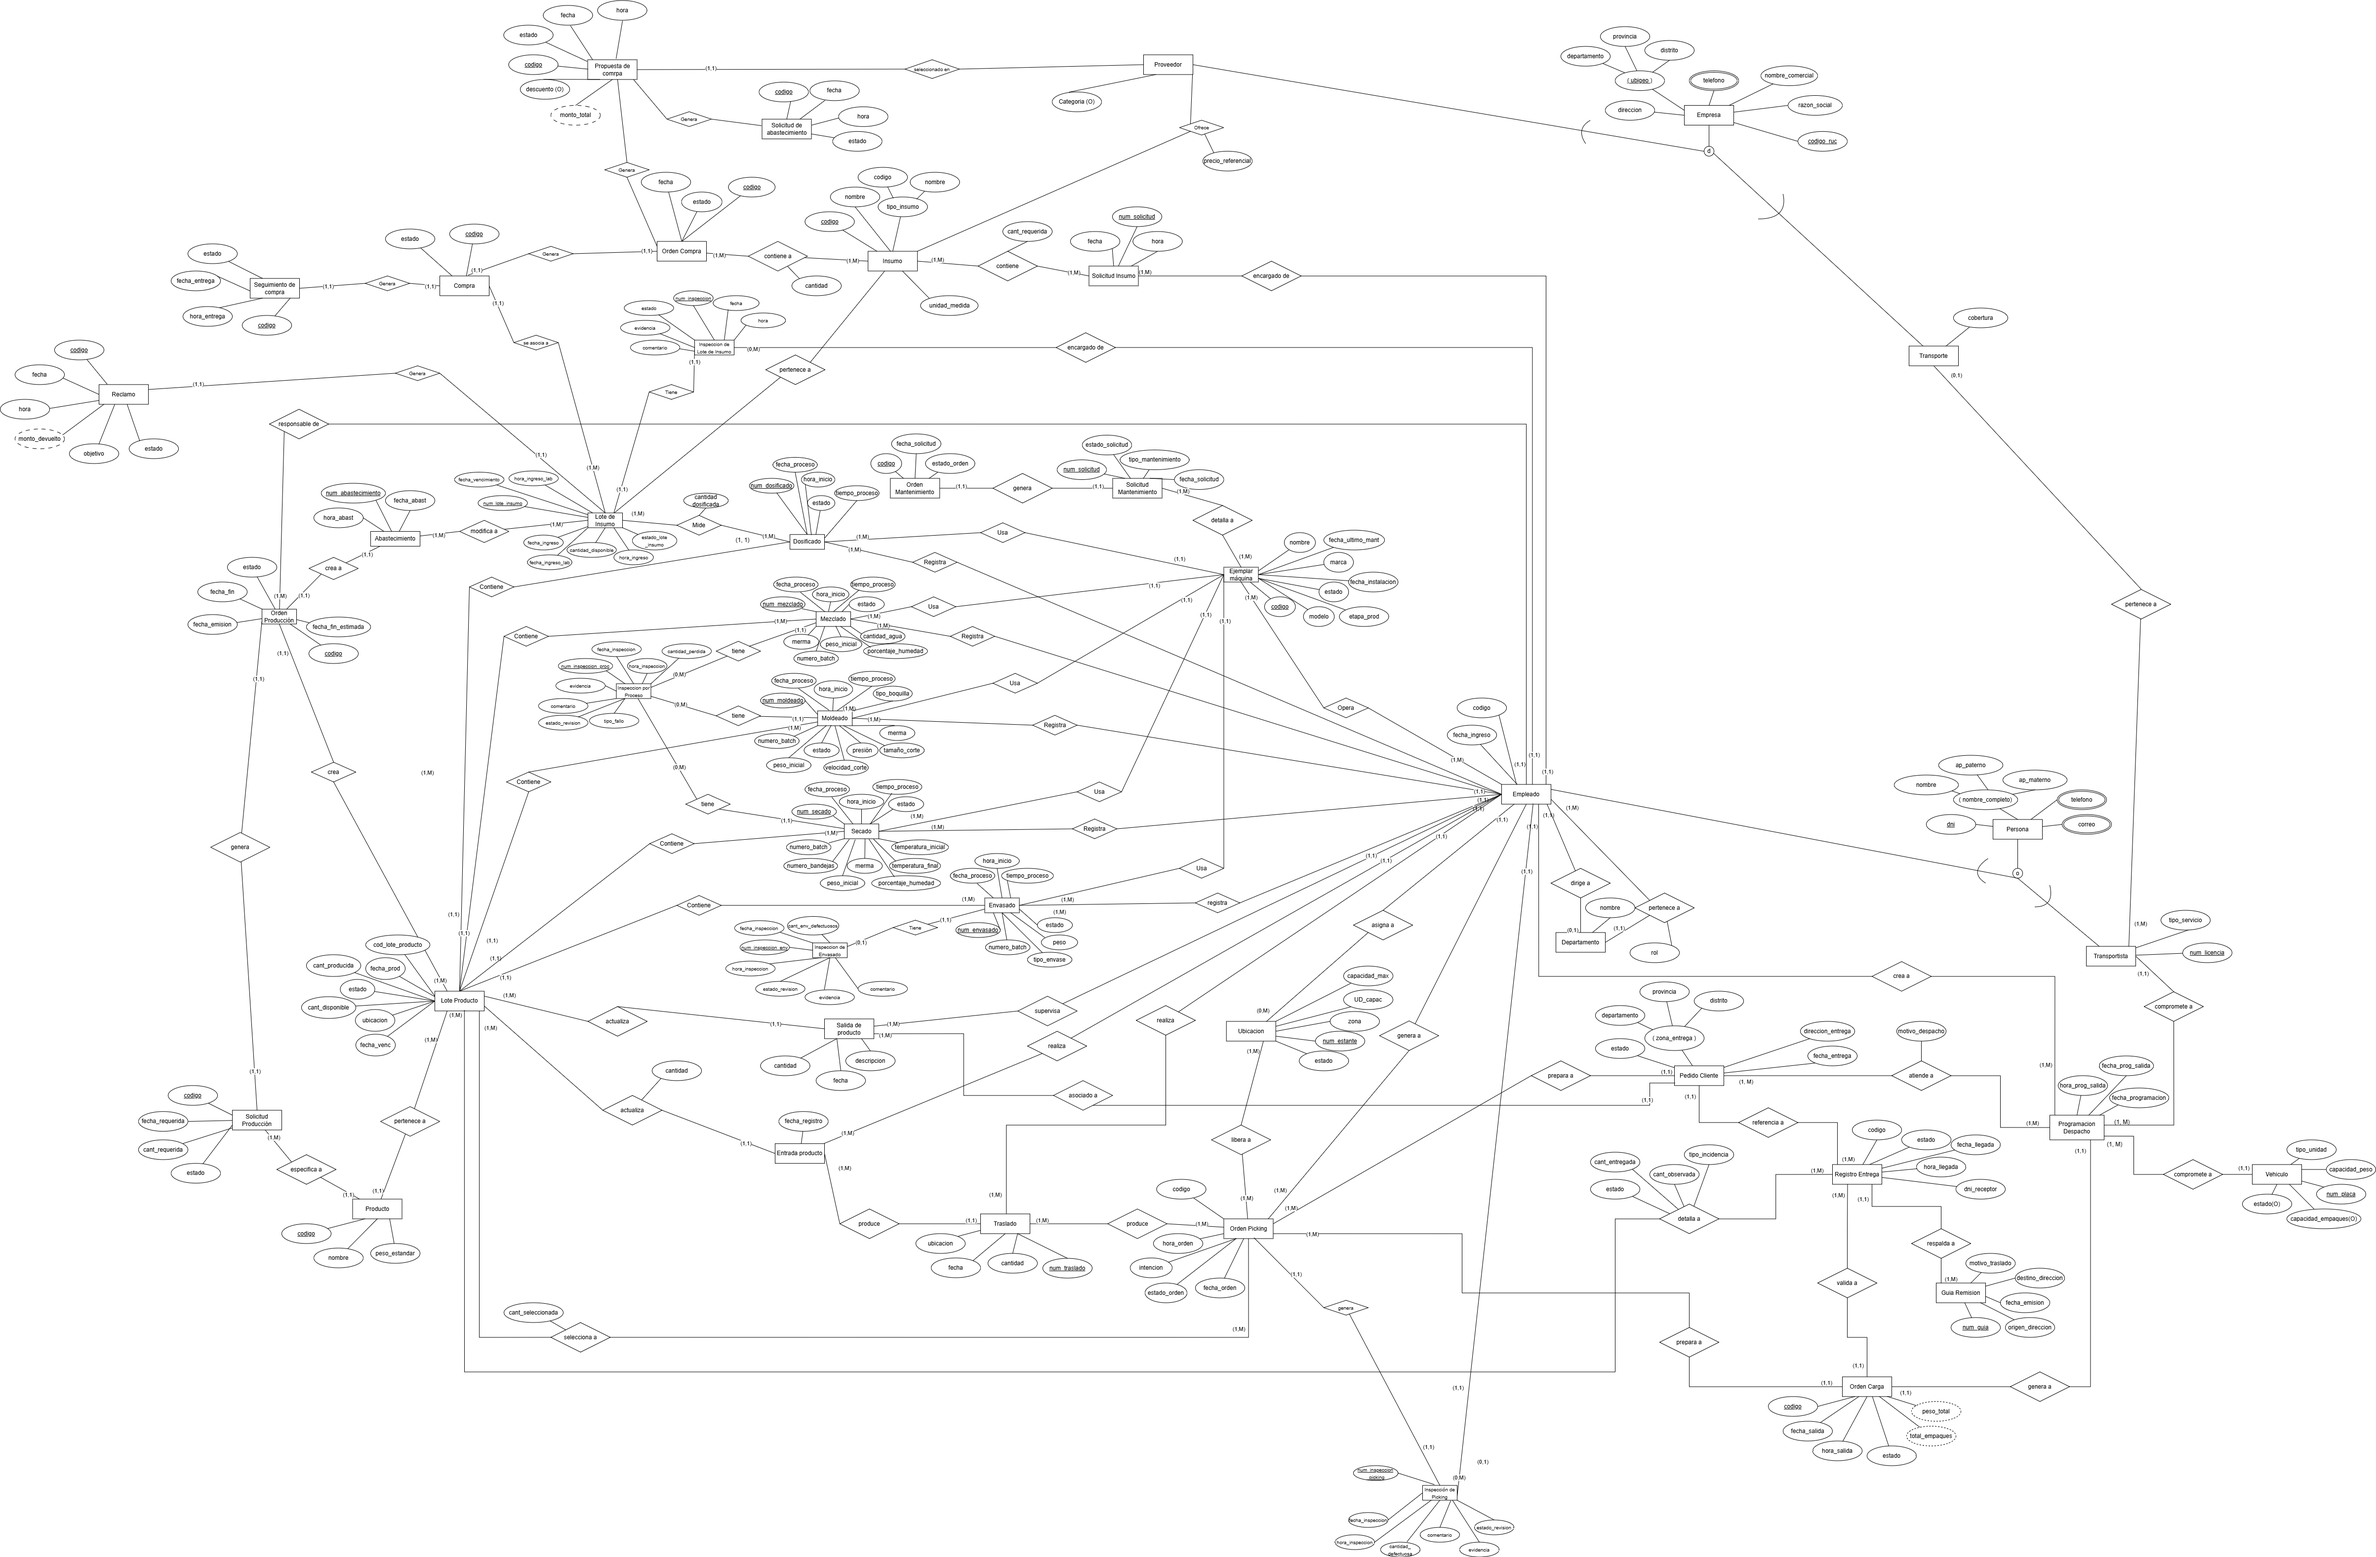
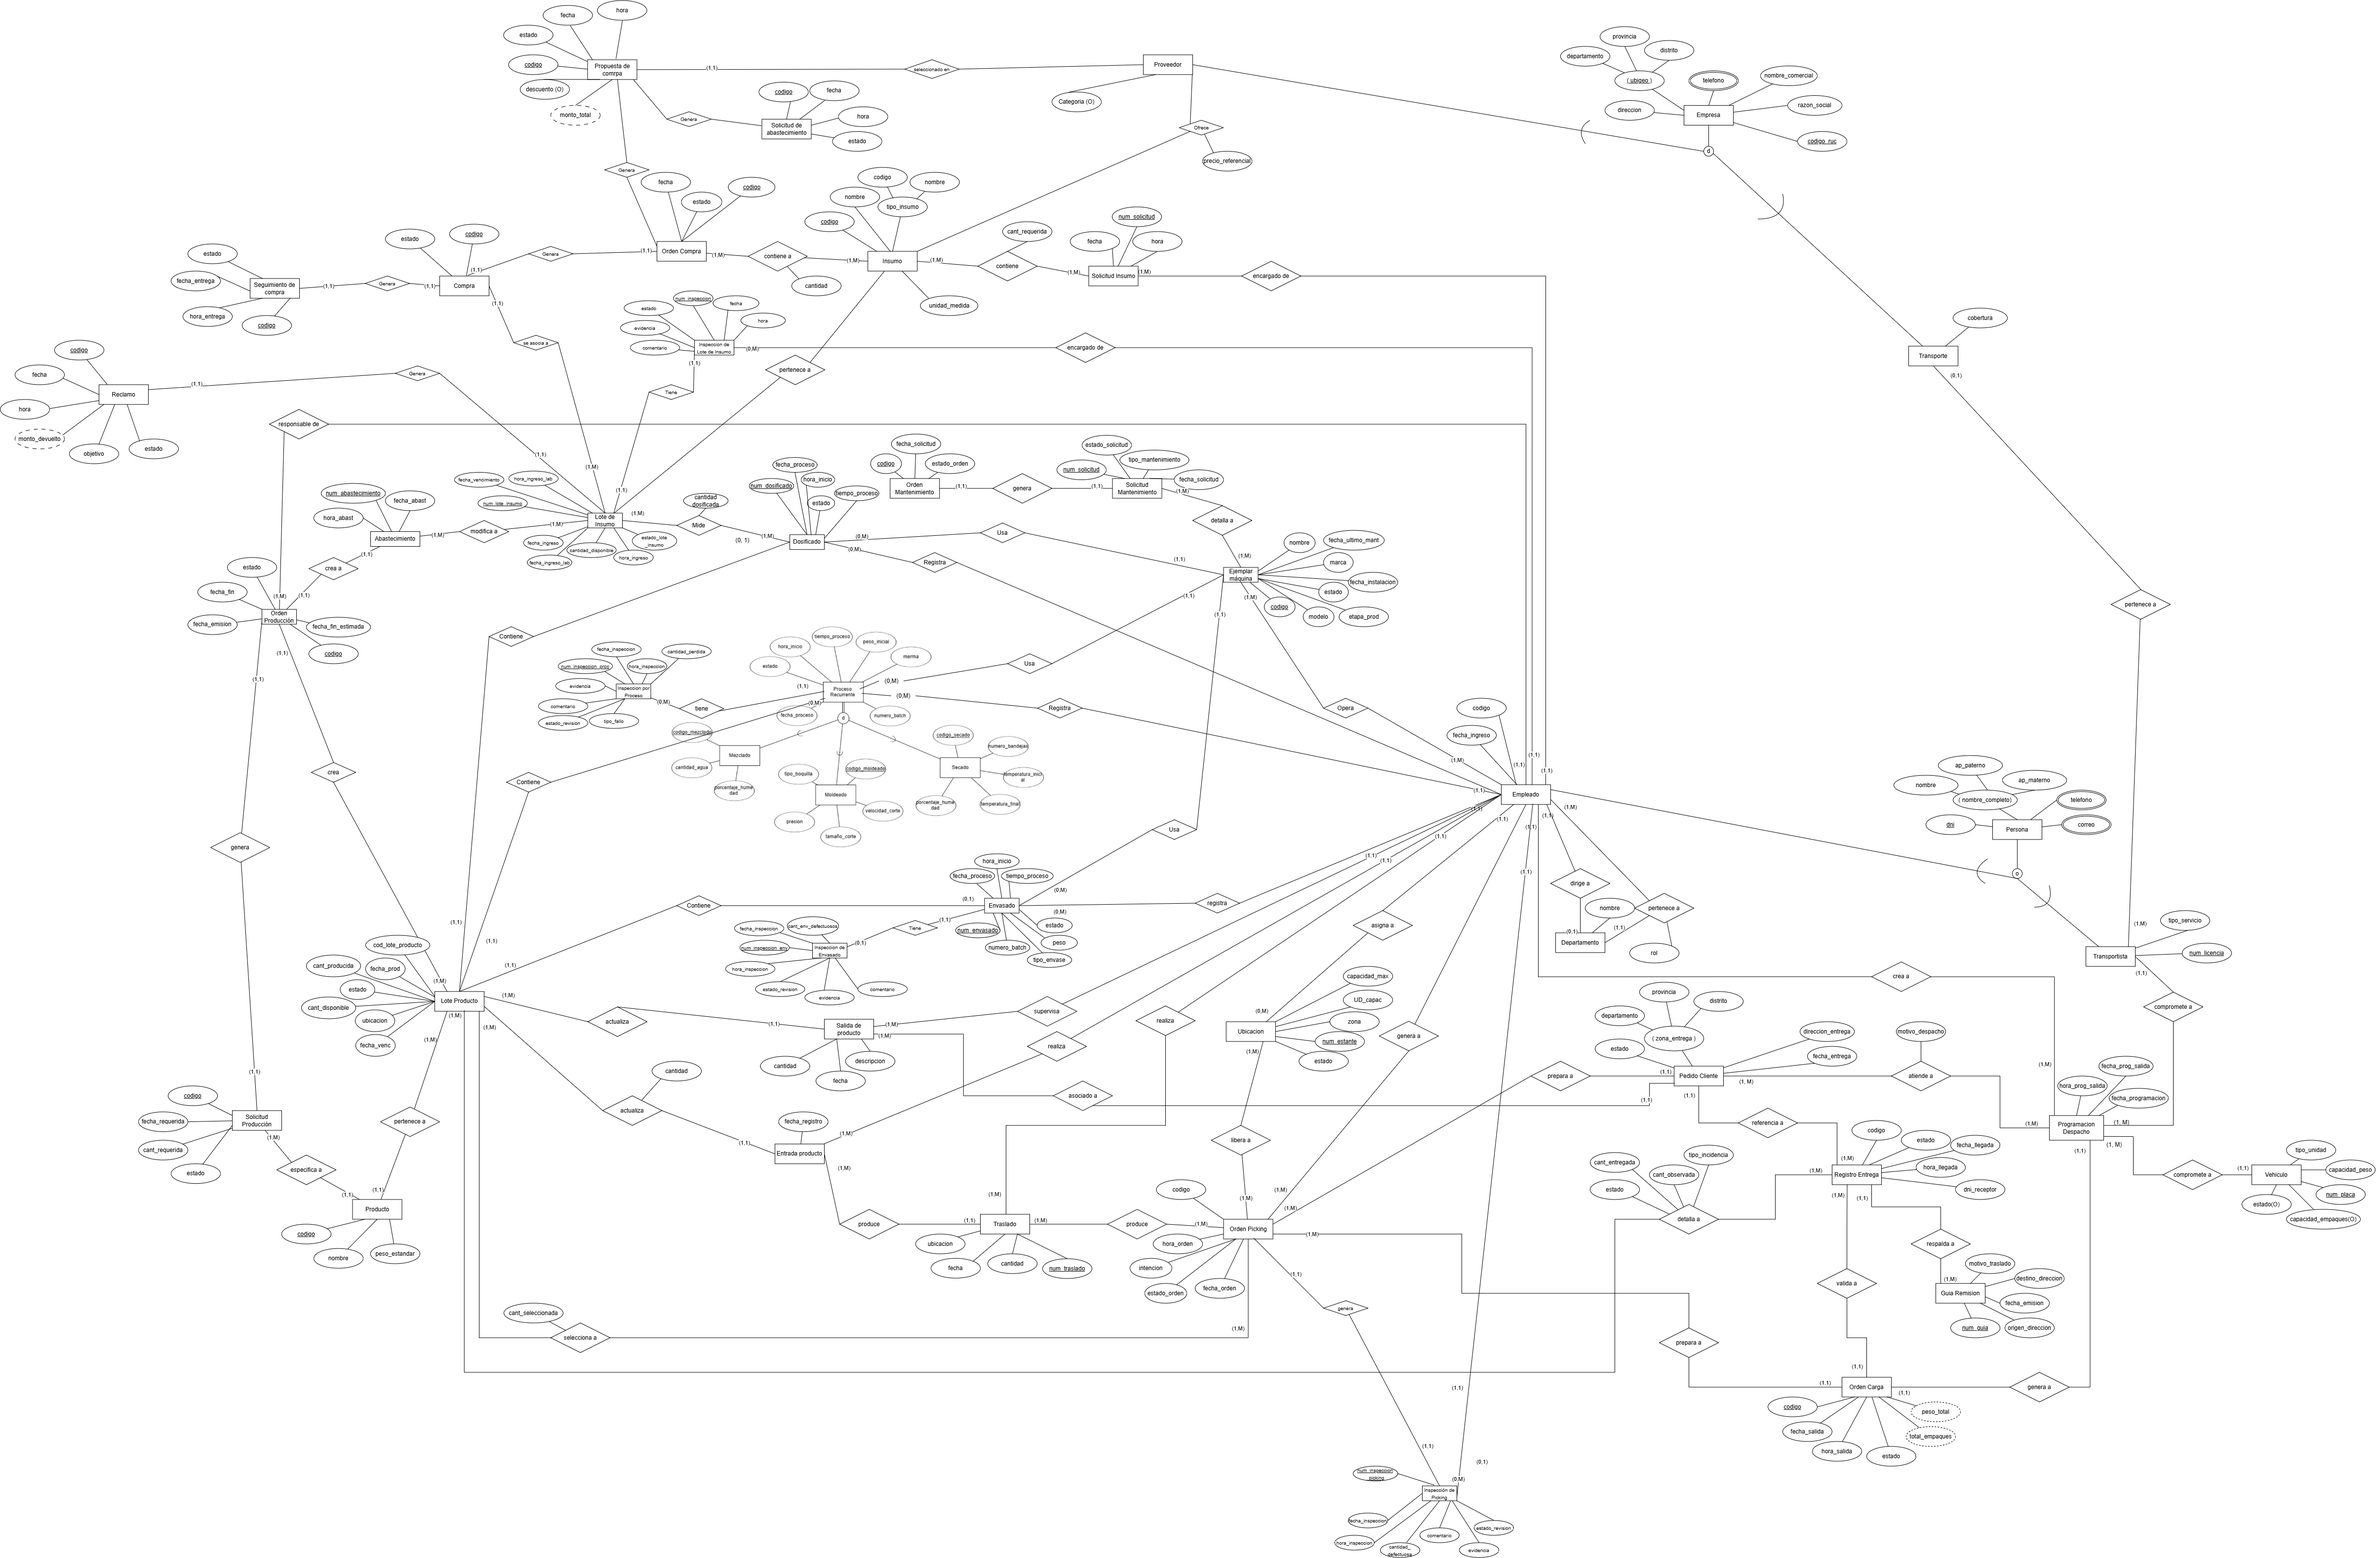
se realizo el cambio a especialización de algunos procesos

diff --git a/4/4.1/4.1.md b/4/4.1/4.1.md
@@ -1,5 +1,3 @@
 # 4.1. Diagrama Entidad Relación
 
 ![Modelo Entidad Relacion](MER.png)
-
-Sample content for section 4.1.
